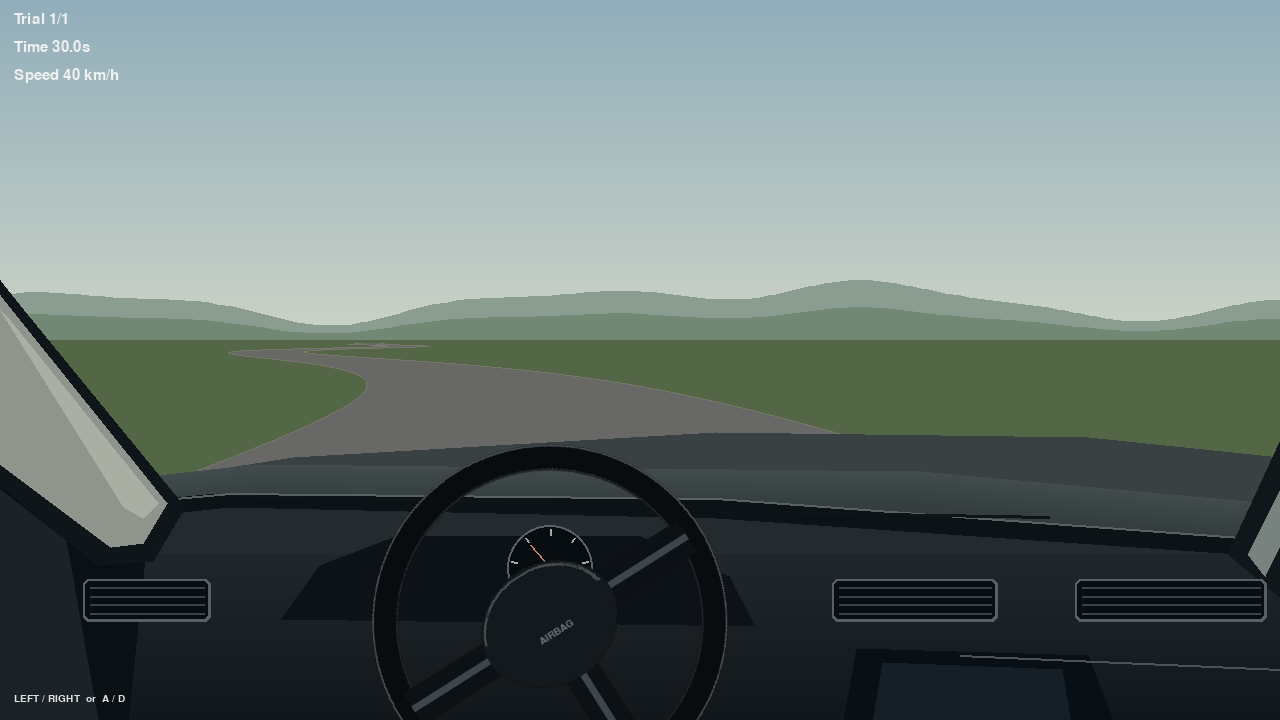
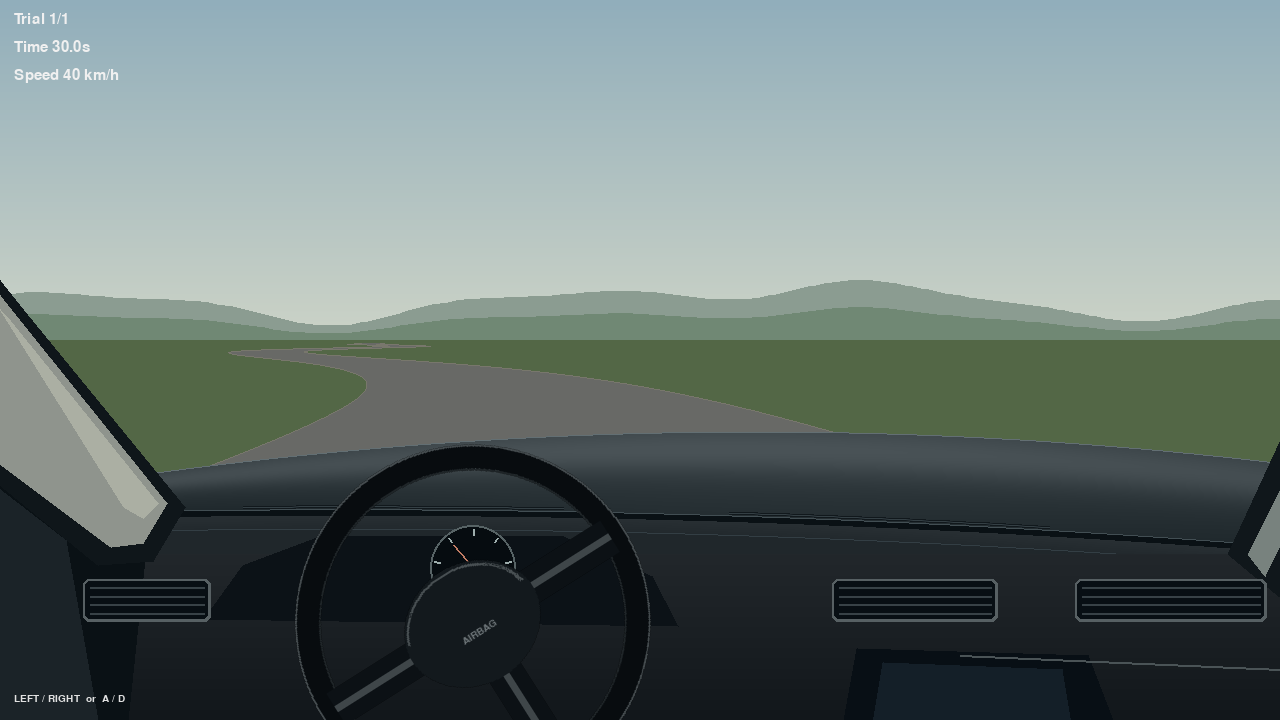
调整驾驶位视角

diff --git a/src/render.py b/src/render.py
@@ -160,25 +160,49 @@ class Renderer:
         # windshield seal. Its curved front lip, rather than a road overlay,
         # determines the nearest visible road distance.
         top = 1.0 - self.config.hood_height_frac
-        hood = [(0,top+.10),(.23,top+.035),(.56,top),(.85,top+.008),(1,top+.035),(1,1),(0,1)]
-        poly((57,65,67), hood)
-        for i in range(28):
-            t=i/28
-            y=top+.045+t*.10
-            color=(int(66-26*t),int(75-28*t),int(77-29*t))
-            poly(color,[(0,y+.04),(.20,y),(.72,y+.01),(1,y+.055),(1,y+.062),(.72,y+.017),(.20,y+.007),(0,y+.047)])
-        # Windshield rubber, wipers, and the curved dashboard crash pad.
-        poly((12,19,22),[(0,top+.115),(.17,top+.085),(.56,top+.093),(1,top+.15),(1,1),(0,1)])
-        poly((35,43,47),[(0,top+.14),(.18,top+.105),(.56,top+.12),(1,top+.175),(1,1),(0,1)])
-        pygame.draw.lines(layer,(89,98,99),False,[(0,int((top+.115)*h)),(int(.18*w),int((top+.085)*h)),(int(.56*w),int((top+.093)*h)),(w,int((top+.15)*h))],2)
-        for x1,x2,yy in [(.18,.45,top+.09),(.56,.82,top+.11)]:
-            pygame.draw.line(layer,(14,21,24),(int(x1*w),int(yy*h)),(int(x2*w),int((yy+.009)*h)),3)
+        # Smooth crowned bonnet: continuous cross-section, with a soft sky
+        # reflection and a dark falloff toward the windshield. Baked once.
+        hood_edge = []
+        glass_edge = []
+        pad_edge = []
+        for x in range(w):
+            u = x / max(1, w-1)
+            front = (top + .26*(u-.59)**2)*h
+            rear = (top + .108 + .095*(u-.27)**2)*h
+            pad = rear + .027*h
+            hood_edge.append((x, int(front)))
+            glass_edge.append((x, int(rear)))
+            pad_edge.append((x, int(pad)))
+            for y in range(int(front), int(rear)+1):
+                t = (y-front)/max(1,rear-front)
+                reflection = 22*math.exp(-((t-.23)/.26)**2)
+                crown = 9*math.exp(-((u-.57)/.43)**2)
+                shade = 47 + crown + reflection - 19*t
+                layer.set_at((x,y),(int(shade),int(shade+9),int(shade+13),255))
+            pygame.draw.line(layer,(10,17,21),(x,int(rear)),(x,int(rear+.009*h)))
+            for y in range(int(rear+.009*h), int(pad)+1):
+                t = (y-rear)/max(1,pad-rear)
+                shade = int(43-9*t)
+                layer.set_at((x,y),(shade,shade+7,shade+11,255))
+            pygame.draw.line(layer,(32,39,43),(x,int(pad)),(x,h))
+        pygame.draw.aalines(layer,(99,111,115),False,hood_edge)
+        pygame.draw.aalines(layer,(66,78,83),False,glass_edge)
+        pygame.draw.aalines(layer,(51,62,68),False,pad_edge)
+        # Low-profile curved wipers sit at the glass base.
+        for start,end in [(.19,.44),(.57,.82)]:
+            points=[]
+            for i in range(41):
+                u=start+(end-start)*i/40
+                yy=(top+.108+.095*(u-.27)**2-.004)*h
+                points.append((int(u*w),int(yy)))
+            pygame.draw.lines(layer,(17,24,28),False,points,3)
+            pygame.draw.aalines(layer,(52,63,68),False,points)
         dash=top+.17
         for y in range(int(dash*h),h):
             shade=int(34-16*(y-dash*h)/max(1,h-dash*h))
             pygame.draw.line(layer,(shade,shade+5,shade+9),(0,y),(w,y))
         # Instrument binnacle projects toward the driver, below the glass.
-        poly((12,18,23),[(.22,dash+.09),(.25,dash+.015),(.31,dash-.025),(.50,dash-.025),(.57,dash+.03),(.59,dash+.10)])
+        poly((12,18,23),[(.16,dash+.09),(.19,dash+.015),(.25,dash-.025),(.44,dash-.025),(.51,dash+.03),(.53,dash+.10)])
         # Reference framing: only the lower left A-pillar enters the image.
         # Its foot joins the door at the screen edge, not a second strip of
         # forward-facing dashboard with exterior road visible to its left.
@@ -224,7 +248,7 @@ class Renderer:
         w, h = self.config.screen_width, self.config.screen_height
         self.screen.blit(self.cockpit, (0,0))
         # A fixed speedometer supplies no road curvature or lateral-error cue.
-        center = (int(.43*w), int((1-self.config.hood_height_frac+.19)*h))
+        center = (int(.37*w), int((1-self.config.hood_height_frac+.19)*h))
         radius = int(.061*h)
         pygame.draw.circle(self.screen, (6,12,16), center, radius)
         pygame.draw.circle(self.screen, (87,99,101), center, radius, 2)
@@ -239,7 +263,7 @@ class Renderer:
         # Positive model steering moves right on screen; pygame positive rotation
         # is counterclockwise, hence the negative sign. Use actual smoothed steer.
         rotated = pygame.transform.rotozoom(self.wheel, -math.degrees(car.steer)*self.config.steering_wheel_ratio, 1)
-        self.screen.blit(rotated, rotated.get_rect(center=(int(.43*w),int(.865*h))))
+        self.screen.blit(rotated, rotated.get_rect(center=(int(.37*w),int(.865*h))))
 
     def _draw_mask(self, mask) -> None:
         if getattr(mask, "condition", "full") == "full":
